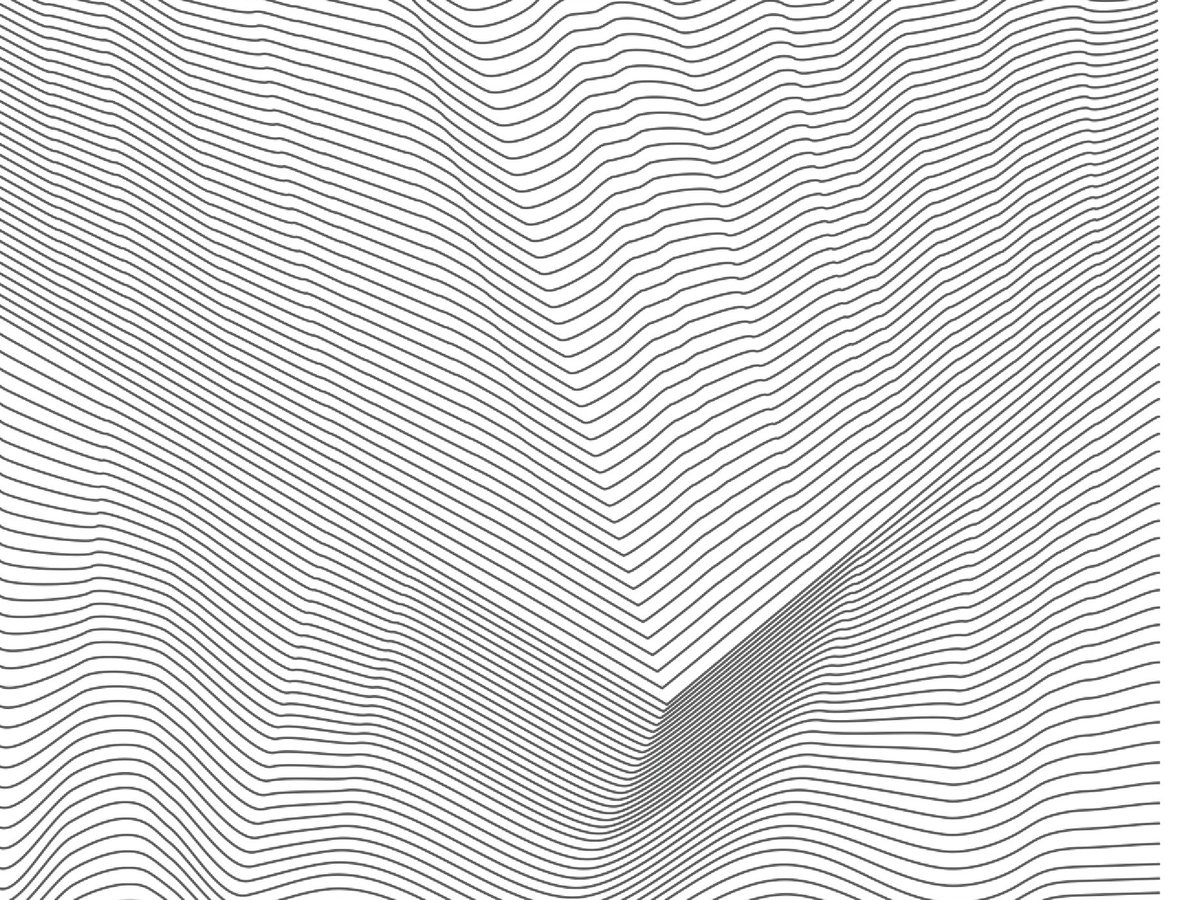
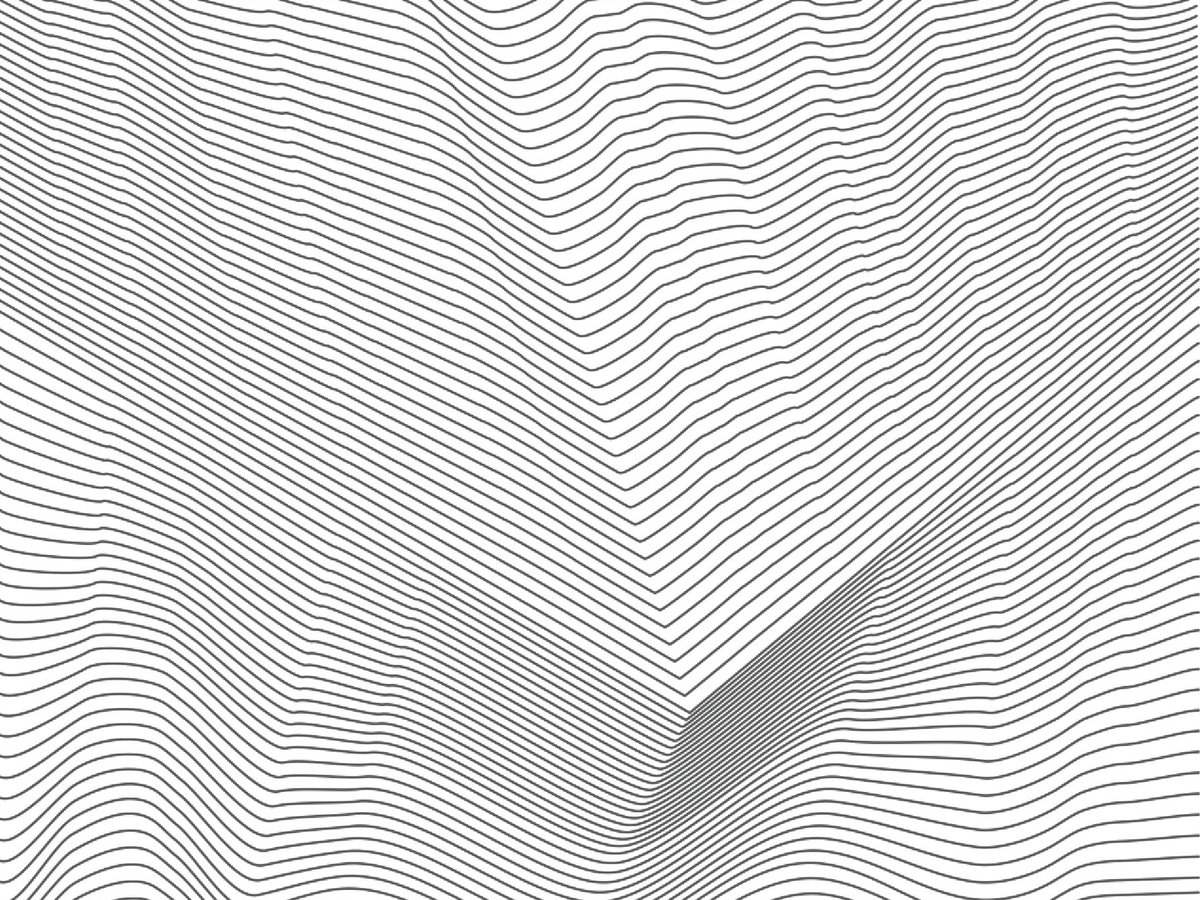
Trim white borders on tiles; new Dude and Graphic tiles; Gothic Folly ongoing
Claude-Session: https://claude.ai/code/session_01E3bXHTJh5H2VYqANYdsnnM

diff --git a/work.html b/work.html
@@ -29,7 +29,7 @@
 </div>
 <div class="grid"><a class="tile" href="gothic-folly.html">
   <div class="img"><img src="images/home/gothic-folly-night.jpg" alt="" loading="lazy"></div>
-  <div class="cap"><span>The Gothic Folly</span><span>2026</span></div>
+  <div class="cap"><span>The Gothic Folly</span><span>2026–Present</span></div>
 </a><a class="tile" href="an-unfamiliar-path.html">
   <div class="img"><img src="images/an-unfamiliar-path/tile.jpg" alt="" loading="lazy"></div>
   <div class="cap"><span>An Unfamiliar Path</span><span>2025</span></div>
@@ -46,7 +46,7 @@
   <div class="img"><img src="images/the-dude-series/tile.jpg" alt="" loading="lazy"></div>
   <div class="cap"><span>The Dude Series</span><span>2020</span></div>
 </a></div>
-<table class="list"><tbody><tr><td><a href="gothic-folly.html">The Gothic Folly</a></td><td></td><td>2026</td></tr><tr><td><a href="an-unfamiliar-path.html">An Unfamiliar Path</a></td><td></td><td>2025</td></tr><tr><td><a href="fashion-explorations.html">Fashion Explorations</a></td><td></td><td>2023–Present</td></tr><tr><td><a href="explorations-roma.html">Explorations Roma</a></td><td></td><td>2022</td></tr><tr><td><a href="graphic-designs.html">Graphic Designs</a></td><td></td><td>2021</td></tr><tr><td><a href="the-dude-series.html">The Dude Series</a></td><td></td><td>2020</td></tr></tbody></table>
+<table class="list"><tbody><tr><td><a href="gothic-folly.html">The Gothic Folly</a></td><td></td><td>2026–Present</td></tr><tr><td><a href="an-unfamiliar-path.html">An Unfamiliar Path</a></td><td></td><td>2025</td></tr><tr><td><a href="fashion-explorations.html">Fashion Explorations</a></td><td></td><td>2023–Present</td></tr><tr><td><a href="explorations-roma.html">Explorations Roma</a></td><td></td><td>2022</td></tr><tr><td><a href="graphic-designs.html">Graphic Designs</a></td><td></td><td>2021</td></tr><tr><td><a href="the-dude-series.html">The Dude Series</a></td><td></td><td>2020</td></tr></tbody></table>
 </div>
 </main>
 <footer class="foot"><span>Hunter Keene, New York</span><a href="mailto:inquiries.hunter@gmail.com">inquiries.hunter@gmail.com</a></footer>

diff --git a/gothic-folly.html b/gothic-folly.html
@@ -21,7 +21,7 @@
 <main>
 <figure class="bleed teaser"><div class="slide on"><img src="images/gothic-folly/teaser.jpg" alt="The Gothic Folly at sunset on the playa"></div></figure><div class="project-head">
   <h1>The Gothic Folly</h1>
-  <span class="meta">Work, 2026</span>
+  <span class="meta">Work, 2026–Present</span>
   <div class="context"><span>Burning Man 2026, Black Rock City</span><span>Lead artists: Hunter Keene and Alex Noerpel</span><span>Fiscal sponsor: Five Ton Crane</span></div>
   <div class="text"><p>A monumental open-air scaffold cathedral shaped by light and participation.</p><p>A 60-foot cathedral-inspired sculpture built from scaffolding, utilitarian materials and 35,900 programmable LEDs. By day it frames the sky; by night it becomes a beacon of light and music.</p></div>
   <div class="links"><a href="https://thegothicfolly.com" target="_blank" rel="noopener">thegothicfolly.com</a><a href="https://wiki.thegothicfolly.com/" target="_blank" rel="noopener">Construction wiki</a><a href="https://www.instagram.com/thegothicfolly/" target="_blank" rel="noopener">Instagram</a></div>

diff --git a/tools/make_tiles.py b/tools/make_tiles.py
@@ -10,25 +10,41 @@ PICK={
  'reveal':('04.jpg',(0,0,1,1),'grow'),
  'hand-drawings':('02.jpg',(0.05,0.25,0.95,0.92),'grow'),
  'kodolu-maja':('04.jpg',(0.0,0.36,1.0,1.0),'shrink'),
- 'monument-for-mars':('04.jpg',(0.27,0.12,0.97,0.96),'grow'),
+ 'monument-for-mars':('04.jpg',(0.27,0.12,0.97,0.96),'shrink'),
  'kayak-center':('09.jpg',(0,0,1,1),'grow'),
- 'studio-roma':('02.jpg',(0.0,0.31,1.0,0.36),'grow'),
+ 'studio-roma':('02.jpg',(0.0,0.31,1.0,0.36),'shrink'),
  'explorations-roma':('03.png',(0.02,0,0.93,0.93),'pad'),
  'concrete-based-membranes':('02.jpg',(0.03,0.1,0.46,0.92),'shrink'),
  'light-weight-tension-structures':('03.jpg',(0.055,0.53,0.46,0.98),'shrink'),
  'high-performance-building':('02.jpg',(0.03,0.35,0.95,0.9),'shrink'),
- 'the-dude-series':('03.jpg',(0,0.25,1,1),'grow'),
+ 'the-dude-series':('02.jpg',(0,0,1,1),'grow'),
  'media-city':('02.jpg',(0.34,0.25,0.9,0.75),'shrink'),
  'bamboo-tension-bridge':('02.jpg',(0.08,0.08,0.97,0.225),'shrink'),
  'fractura':('06.jpg',(0,0,1,1),'grow'),
  'ncma':('03.jpg',(0,0,1,1),'pad'),
- 'graphic-designs':('03.jpg',(0,0,1,1),'grow'),
+ 'graphic-designs':('05.jpg',(0,0,1,1),'pad'),
  'portfolio-2023':('02.jpg',(0.14,0.12,0.91,0.85),'shrink'),
 }
 R=4/3
+import numpy as np
+def trim_white(im,limit=0.12):
+    """Strip near-white border bands (board margins) from each edge."""
+    a=np.asarray(im.convert('L')).astype(int); H,W=a.shape
+    def band(rows):  # rows: iterable of 1-D arrays from the edge inward
+        n=0
+        for r in rows:
+            if (r>232).mean()>0.97: n+=1
+            else: break
+        return n
+    t=band(a[i] for i in range(int(H*limit))); b=band(a[H-1-i] for i in range(int(H*limit)))
+    l=band(a[:,i] for i in range(int(W*limit))); r=band(a[:,W-1-i] for i in range(int(W*limit)))
+    return im.crop((l,t,W-r,H-b))
 def fit(im,box,mode):
     W,H=im.size; x0,y0,x1,y1=box[0]*W,box[1]*H,box[2]*W,box[3]*H
-    if mode in('shrink','pad'): im=im.crop((round(x0),round(y0),round(x1),round(y1))); W,H=im.size; x0,y0,x1,y1=0,0,W,H
+    if mode in('shrink','pad'):
+        im=im.crop((round(x0),round(y0),round(x1),round(y1)))
+        if mode=='shrink': im=trim_white(im)
+        W,H=im.size; x0,y0,x1,y1=0,0,W,H
     w,h=x1-x0,y1-y0; cx,cy=(x0+x1)/2,(y0+y1)/2
     if mode=='pad':
         w,h=(w,w/R) if w/h>R else (h*R,h)
